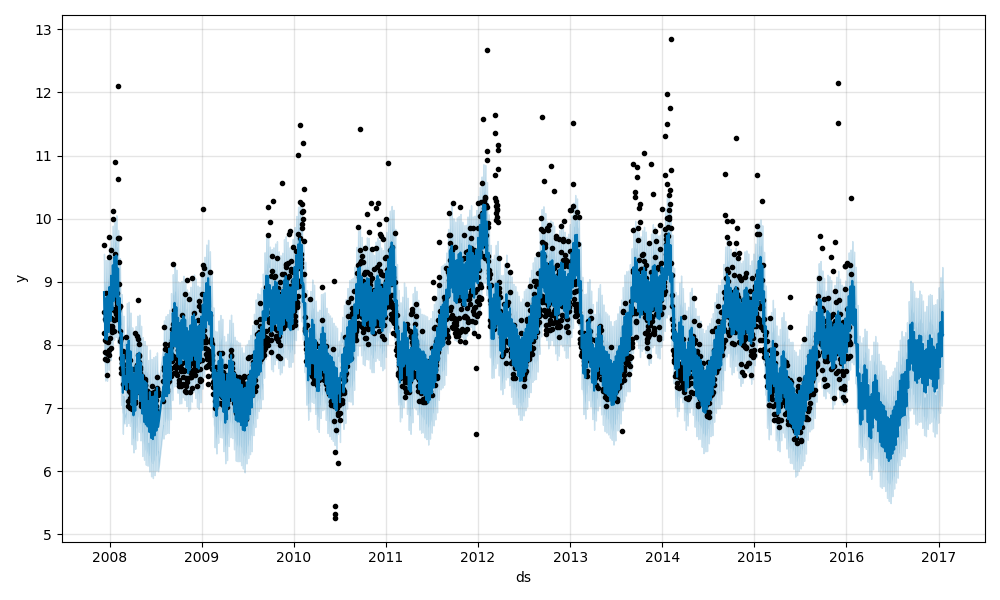
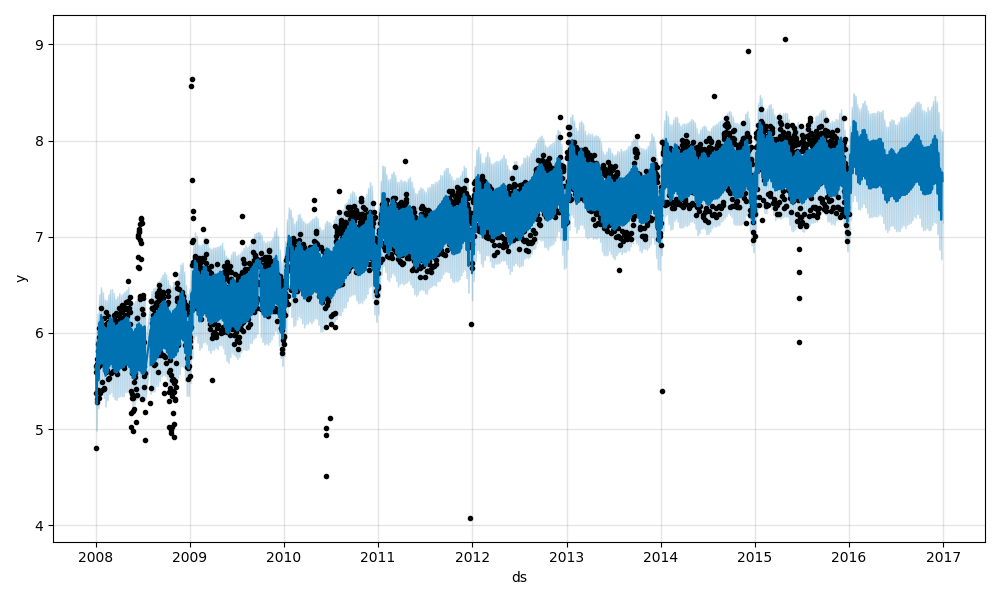
add seasonality

diff --git a/src/05_prophet_seasonality.py b/src/05_prophet_seasonality.py
@@ -1,0 +1,36 @@
+from fbprophet import Prophet
+import pandas as pd
+
+
+df = pd.read_csv("data/input/example_wp_log_peyton_manning.csv")
+print(df.head())
+
+
+playoffs = pd.DataFrame({
+    'holiday': 'playoff',
+    'ds': pd.to_datetime(['2008-01-13', '2009-01-03', '2010-01-16',
+                        '2010-01-24', '2010-02-07', '2011-01-08',
+                        '2013-01-12', '2014-01-12', '2014-01-19',
+                        '2014-02-02', '2015-01-11', '2016-01-17',
+                        '2016-01-24', '2016-02-07']),
+    'lower_window': 0,
+    'upper_window': 1,
+})
+superbowls = pd.DataFrame({
+  'holiday': 'superbowl',
+  'ds': pd.to_datetime(['2010-02-07', '2014-02-02', '2016-02-07']),
+  'lower_window': 0,
+  'upper_window': 1,
+})
+holidays = pd.concat((playoffs, superbowls))
+
+m = Prophet(holidays=holidays)
+m.fit(df)
+future = m.make_future_dataframe(periods=365)
+forecast = m.predict(future)
+
+print(forecast[(forecast['playoff'] + forecast['superbowl']).abs() > 0][
+        ['ds', 'playoff', 'superbowl']][-10:])
+
+fig = m.plot_components(forecast)
+fig.savefig("figure/17_prophet_holidays.png")

diff --git a/src/04_prophet_changepoints.py b/src/04_prophet_changepoints.py
@@ -1,0 +1,17 @@
+from fbprophet import Prophet
+from fbprophet.plot import add_changepoints_to_plot
+import pandas as pd
+
+
+df = pd.read_csv("data/input/example_wp_log_R.csv")
+print(df.head())
+
+m = Prophet(changepoint_prior_scale=0.5)
+m.fit(df)
+future = m.make_future_dataframe(periods=365)
+forecast = m.predict(future)
+
+# 変化点プロット
+fig = m.plot(forecast)
+a = add_changepoints_to_plot(fig.gca(), m, forecast)
+fig.savefig("figure/16_prophet_changepoints.png")

diff --git a/src/02_prophet_quick_start.py b/src/02_prophet_quick_start.py
@@ -1,4 +1,5 @@
 from fbprophet import Prophet
+from fbprophet.plot import add_changepoints_to_plot
 import pandas as pd
 
 
@@ -22,6 +23,3 @@ fig1.savefig("figure/12_prophet_forecast.png")
 # 成分プロット
 fig2 = m.plot_components(forecast)
 fig2.savefig("figure/13_prophet_componets.png")
-
-
-
